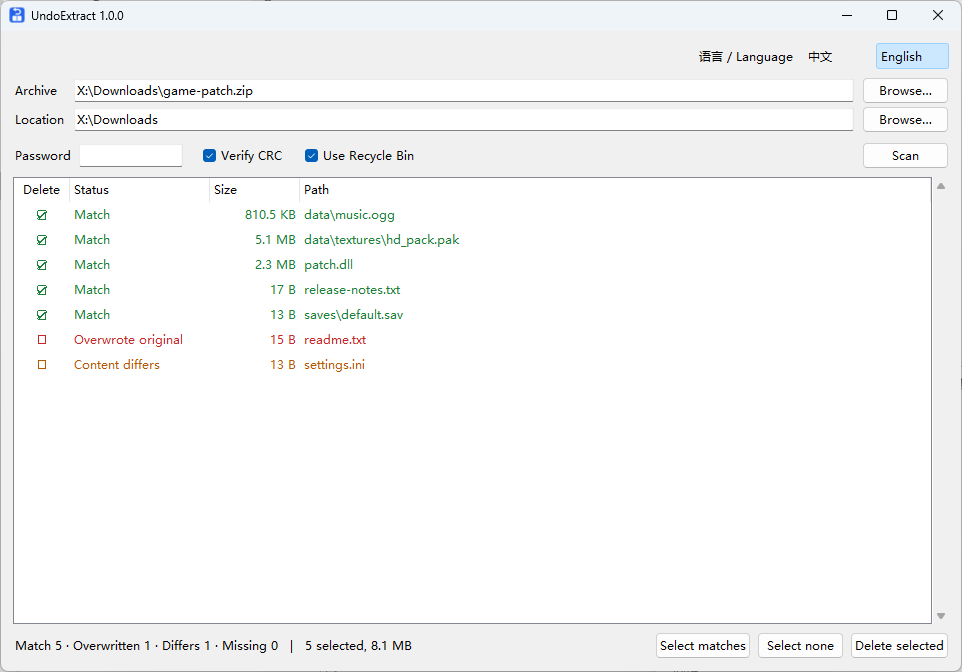
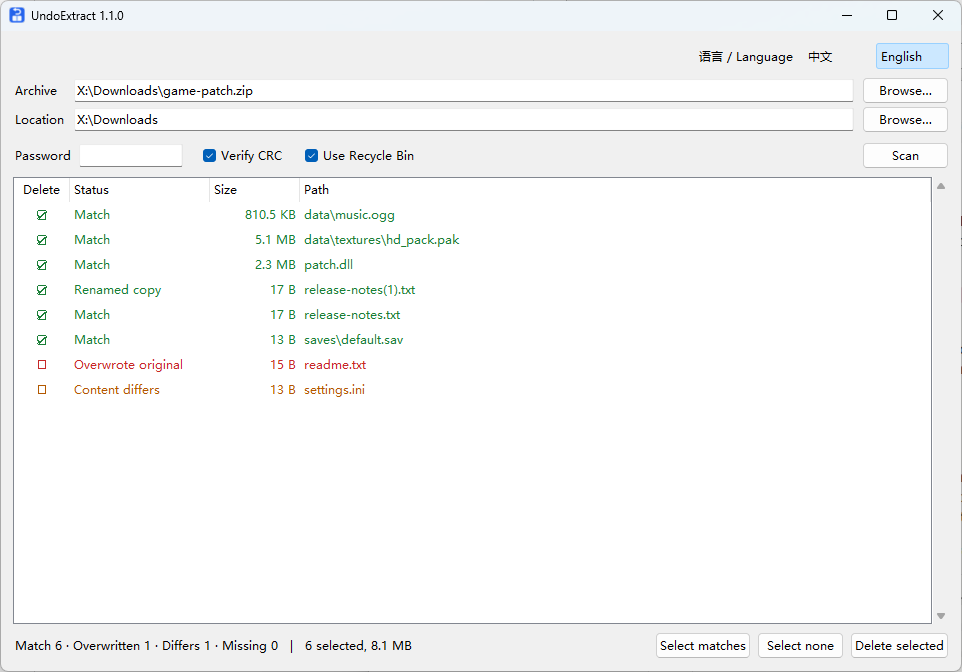
Detect auto-renamed copies, fix message line breaks (1.1.0)
- Find copies the extractor auto-renamed on a name conflict
  (a_1.txt from 7-Zip, a(1).txt from WinRAR, a (1).txt), verified by CRC
  and creation time, and select them for deletion
- Fix literal "\n" shown in the overwrite warning and 7-Zip error dialogs
- Accept 7-Zip warning exit code 1, pass the archive after "--",
  reject entry paths containing ":", skip junctions when removing
  folders, throttle progress updates

diff --git a/README.md b/README.md
@@ -13,6 +13,7 @@
 - 按完整路径比对，包括解压进已有同名文件夹的文件
 - 比对大小和 CRC，内容一致的文件才默认选中
 - 识别解压时被覆盖的原有文件（红色）
+- 识别因重名被自动改名的副本（如 `a_1.txt`、`a(1).txt`）
 - 删除到回收站，并移除变空的文件夹
 - 支持 7-Zip 能打开的格式（zip、7z、rar、tar.gz 等），支持加密压缩包
 - 中英文界面，右上角切换
@@ -31,6 +32,7 @@
 |---|---|---|
 | 一致 | 是 | 大小和 CRC 与压缩包一致 |
 | 一致（仅大小） | 是 | 压缩包无 CRC（如 tar），只比对了大小 |
+| 改名的副本 | 是 | 解压时因重名被自动改名，内容与压缩包一致 |
 | 覆盖了原文件 | 否 | 内容一致，但该位置原有同名文件被覆盖 |
 | 大小不同 / 内容不同 / 时间不同 | 否 | 与压缩包不一致 |
 | 不存在 | — | 文件夹中没有此文件 |
@@ -39,7 +41,7 @@
 
 - 被覆盖文件的原内容无法恢复，可尝试 右键 → 属性 → 以前的版本。
 - 解压中途取消时，未写完的文件显示为“内容不同”或“大小不同”，需手动选中。
-- 解压时自动重命名的文件（如 `a (1).txt`）不会被识别。
+- 改名副本支持 `a_1.txt`（7-Zip）、`a(1).txt`（WinRAR）、`a (1).txt` 三种格式，需开启 CRC 校验。
 - U 盘和网络位置没有回收站，删除即为永久删除。
 - 覆盖识别仅适用于 NTFS 磁盘。
 - exe 未签名，Windows 可能提示“已保护你的电脑”，点“更多信息 → 仍要运行”。
@@ -75,6 +77,7 @@ Undo an unzip: finds and deletes the files extracted from an archive, using the 
 - Matches by full path, including files extracted into existing folders
 - Compares size and CRC; only matching files are selected by default
 - Detects existing files that were overwritten by the extraction (red)
+- Detects copies auto-renamed because of a name conflict (e.g. `a_1.txt`, `a(1).txt`)
 - Deletes to the Recycle Bin and removes folders left empty
 - Supports any format 7-Zip can open (zip, 7z, rar, tar.gz, …), including encrypted archives
 - Chinese and English UI, switch in the top-right corner
@@ -93,6 +96,7 @@ Undo an unzip: finds and deletes the files extracted from an archive, using the 
 |---|---|---|
 | Match | Yes | Size and CRC match the archive |
 | Match (size only) | Yes | The archive has no CRC (e.g. tar); only size was compared |
+| Renamed copy | Yes | Auto-renamed during extraction because of a name conflict; contents match the archive |
 | Overwrote original | No | Contents match, but an existing file at this path was overwritten |
 | Size / Content / Time differs | No | Differs from the archive |
 | Missing | — | Not in the folder |
@@ -101,7 +105,7 @@ Undo an unzip: finds and deletes the files extracted from an archive, using the 
 
 - Original contents of overwritten files can't be recovered; try right-click → Properties → Previous Versions.
 - If extraction was cancelled, the unfinished file shows as Content differs or Size differs; select it manually.
-- Auto-renamed copies (e.g. `a (1).txt`) are not detected.
+- Renamed copies are detected in three formats: `a_1.txt` (7-Zip), `a(1).txt` (WinRAR) and `a (1).txt`. CRC checking must be on.
 - USB drives and network locations have no Recycle Bin; deletion there is permanent.
 - Overwrite detection works on NTFS only.
 - The exe is unsigned. If Windows shows “Windows protected your PC”, click “More info → Run anyway”.
